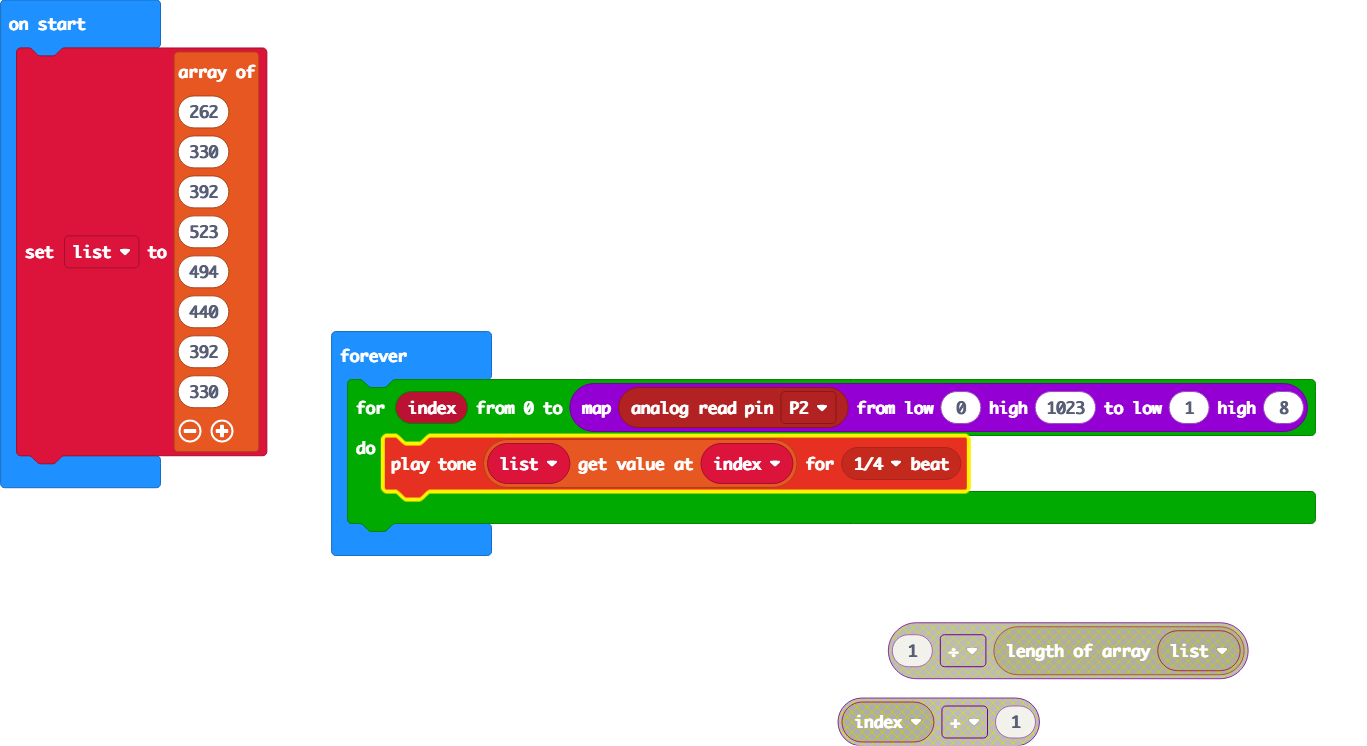
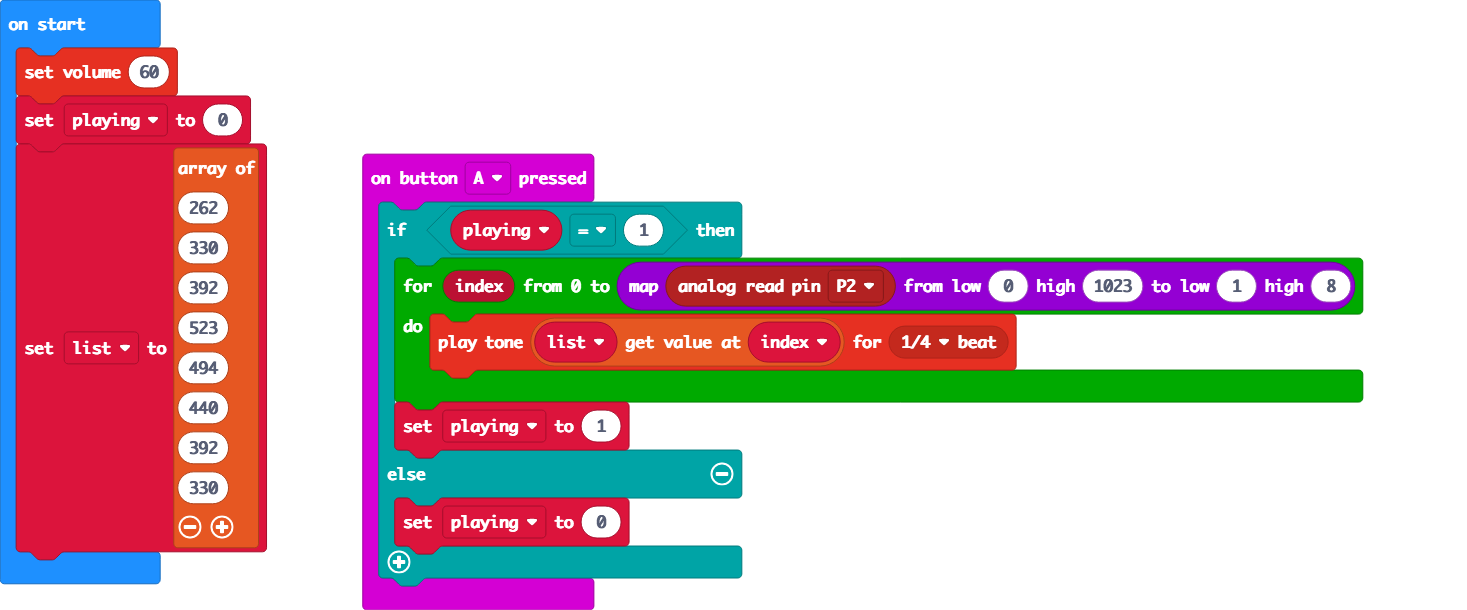
added on/off via A button

diff --git a/main.ts b/main.ts
@@ -1,6 +1,15 @@
-let list = [262, 330, 392, 523, 494, 440, 392, 330]
-basic.forever(function () {
-    for (let index = 0; index <= Math.map(pins.analogReadPin(AnalogPin.P2), 0, 1023, 1, 8); index++) {
-        music.playTone(list[index], music.beat(BeatFraction.Quarter))
+input.onButtonPressed(Button.A, function () {
+    if (playing == 1) {
+        for (let index = 0; index <= Math.map(pins.analogReadPin(AnalogPin.P2), 0, 1023, 1, 8); index++) {
+            music.playTone(list[index], music.beat(BeatFraction.Quarter))
+        }
+        playing = 1
+    } else {
+        playing = 0
     }
 })
+let list: number[] = []
+let playing = 0
+music.setVolume(60)
+playing = 0
+list = [262, 330, 392, 523, 494, 440, 392, 330]
